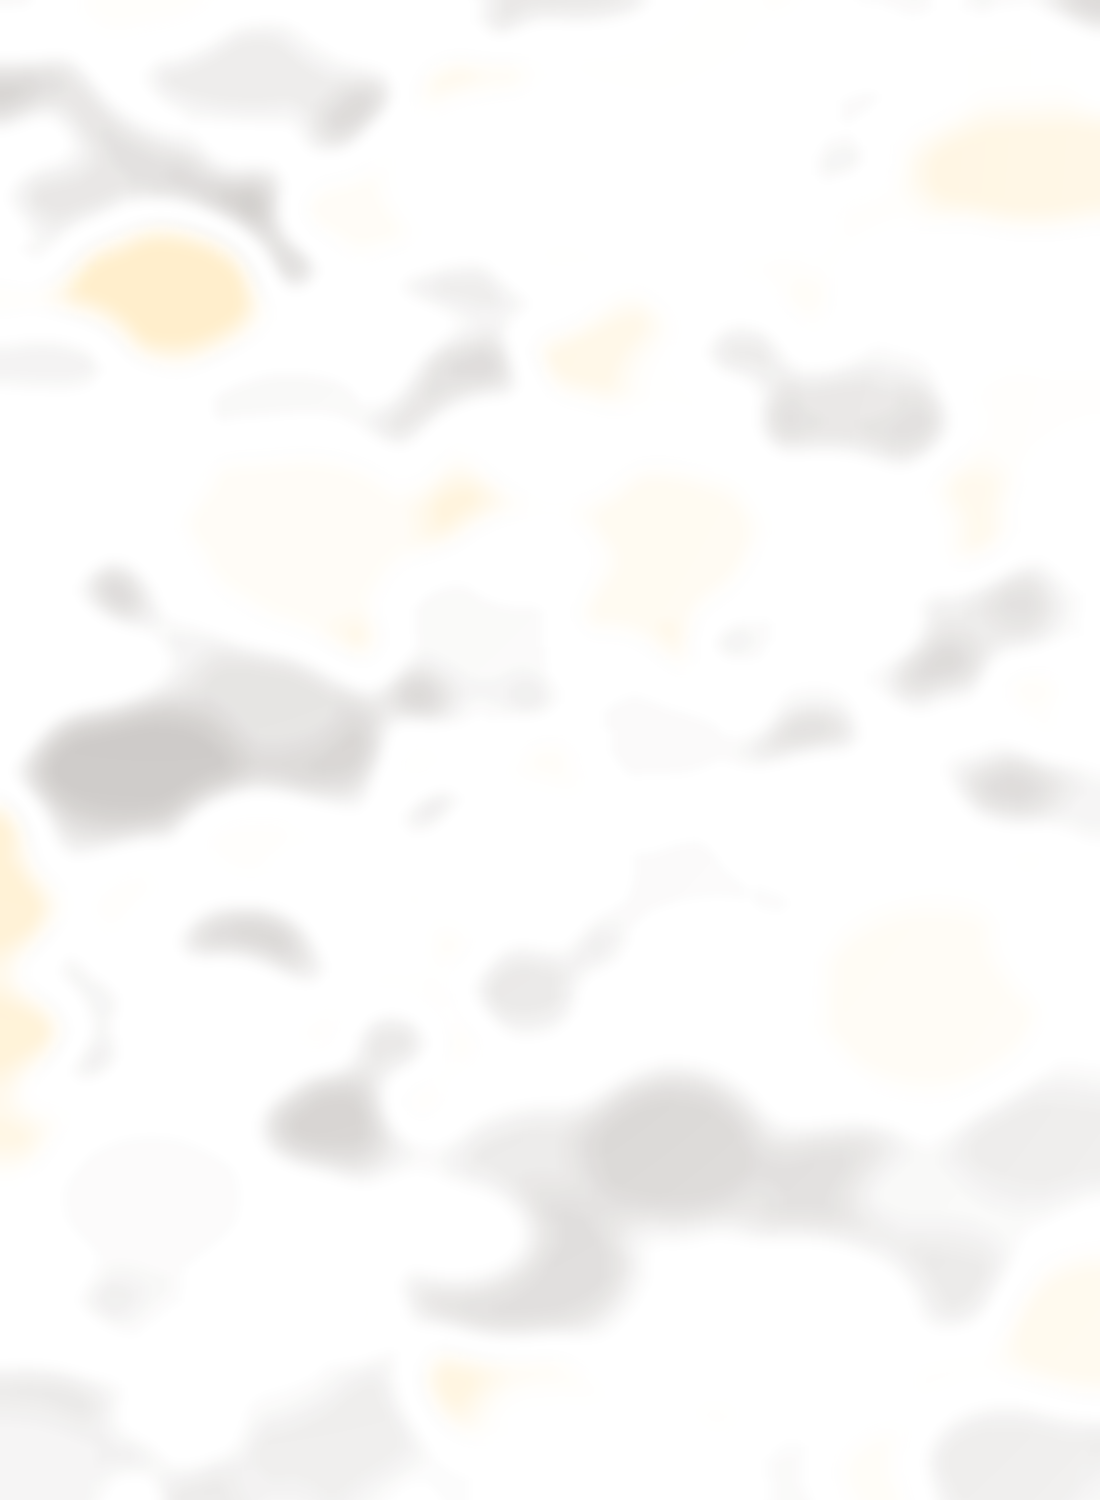
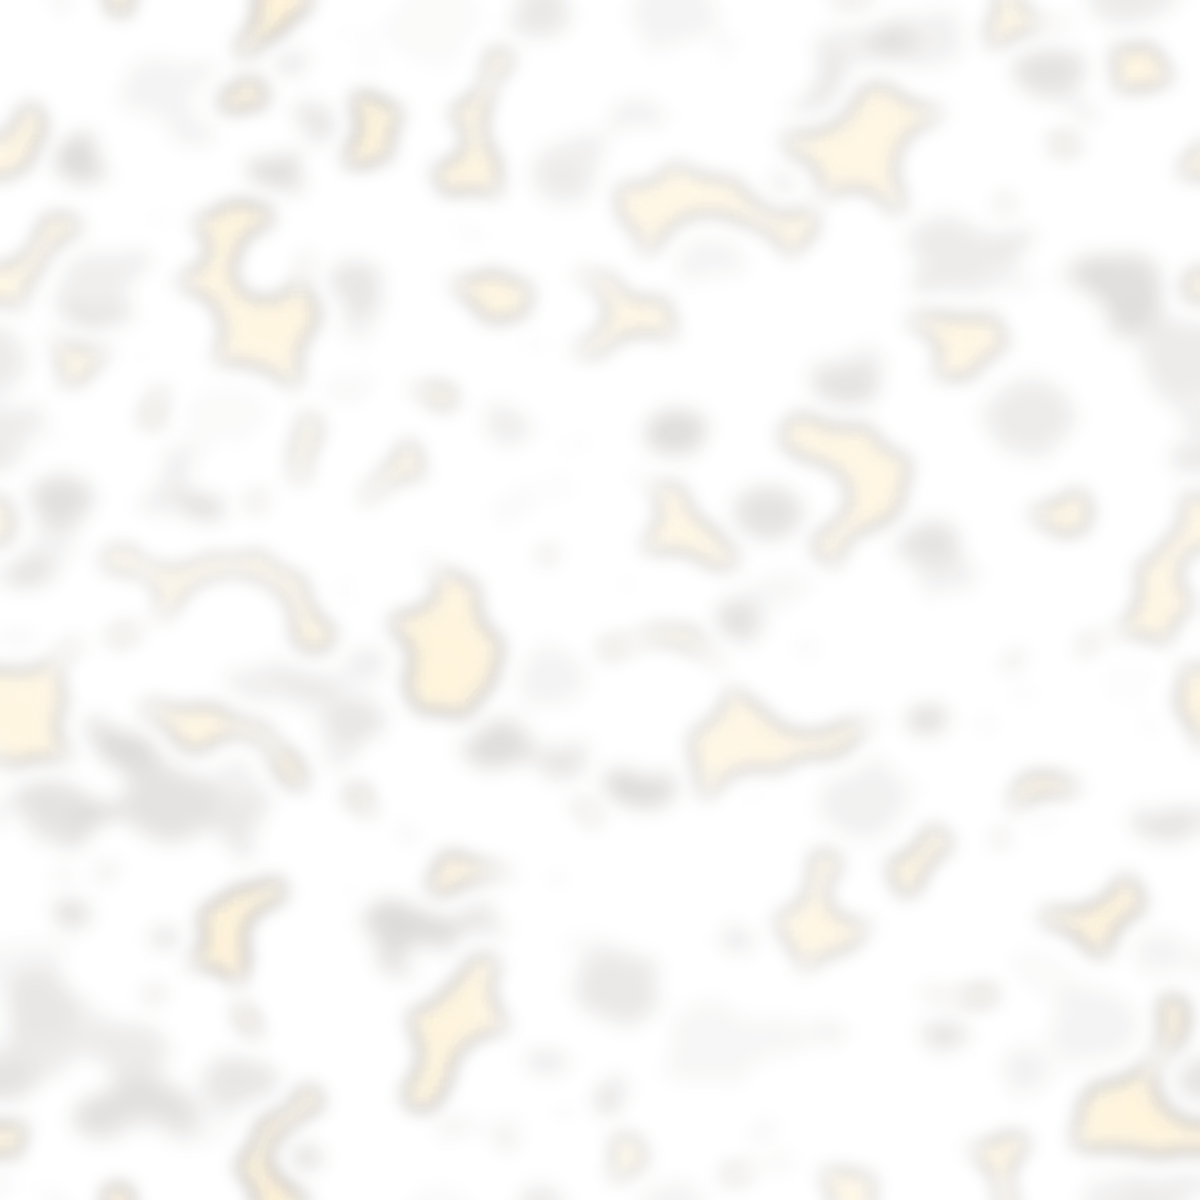
木漏れ日を、細かく密にする
ご指摘：粗くて不自然に見える。もっと細かく密に。

■ 何が粗かったのか（実測）
前のタイルは、光の粒が3個しかなく、直径57pxあった。
斑ではなく「滲み」に見えていた。

  前   光の粒   3個  直径 57px
  今   光の粒  71個  直径 34px（画面上は約11px）

葉を小さく多くしても、重なりすぎると場が一様になって隙間が開かない。
葉の数ではなく「隙間の割合」で決める必要があり、しきい値を
分位点で指定する形に変えた（下位14%が抜けたところ＝光）。

■ 継ぎ目を消した
画面ごとに粒の大きさが変わらないよう、背景は px で固定して繰り返す。
cover のままだと、スマートフォンで9px、パソコンで22pxと別物になる。

繰り返すには継ぎ目が消えていないといけない。3×3に並べてから
ぼかして真ん中を切り出す形にした。

  継ぎ目の差  左右 18.5 → 1.5 ／ 上下 1.1

■ 大きさと強さは並べて決めた
  760px … 粒が大きく滲みに見える
  380px … 細かく密。自然に見える  ← これ
  260px … 細かすぎて迷彩に見える

輪郭が立っていると、光ではなく「花びらが貼ってある」ように見えた。
アルファを寝かせてさらにぼかし、形ではなく明るさとして出す。
強さは .40／.55／.72 を並べて .55。

■ 検査
554件、すべて通過。

diff --git a/styles/shelf.css b/styles/shelf.css
@@ -1418,9 +1418,20 @@
 
      棚にも台にも本にも落ちる必要があるので、この層だけは
      売り場ぜんたい（棚 z:1／平台 z:2）の上に置く。 */
+  /* 木漏れ日のタイル。継ぎ目なく繰り返せるように作ってある。
+     大きさは px で固定する。cover にすると画面ごとに粒の大きさが変わり、
+     スマートフォンで 9px、パソコンで 22px と別物になってしまう。
+     380px に敷くと、画面上の光の粒は直径 11px 前後になる。
+     760px では粒が大きく「滲み」に見え、260px では細かすぎて
+     迷彩のようになった。並べて比べて 380px にしている。 */
   background:
-    url("../assets/images/komorebi.webp") no-repeat left top / cover,
-    radial-gradient(70% 50% at 12% 2%, rgba(255,226,172,.40), transparent 76%);
+    url("../assets/images/komorebi.webp") repeat left top / 380px 380px,
+    radial-gradient(70% 50% at 12% 2%, rgba(255,226,172,.26), transparent 76%);
+  /* 窓は左上。そこから離れるほど、光は弱まる */
+  -webkit-mask-image:radial-gradient(142% 118% at 10% -8%,
+    rgba(0,0,0,1) 0%, rgba(0,0,0,.86) 32%, rgba(0,0,0,.52) 66%, rgba(0,0,0,.24) 100%);
+          mask-image:radial-gradient(142% 118% at 10% -8%,
+    rgba(0,0,0,1) 0%, rgba(0,0,0,.86) 32%, rgba(0,0,0,.52) 66%, rgba(0,0,0,.24) 100%);
 }
 /* 下へ向かう減光。參考画像は中央82／上の隅63〜69／下の隅41 */
 .scene::after{

diff --git a/styles/base.css b/styles/base.css
@@ -112,7 +112,7 @@
      葉のすき間から漏れた明るい斑で、棚にも本にも平台にも落ちる。
      ※ 參考画像そのものには、この斑も枝の影も写っていない。
         言葉と絵で食い違っている点は國分様にご確認いただく。 */
-  --sun-amt:    .62;   /* 木漏れ日の強さ。.40は控えめ／.85は強い */
+  --sun-amt:    .55;   /* 木漏れ日の強さ。.40は控えめ／.72は強い */
   --fall-amt:   .12;   /* 下へ向かう減光。強くすると本まで暗くなる */
 
   --grain-amt:  .55;   /* 繊維の強さ。実測の比較から。.26では出ず、.9では荒い */
